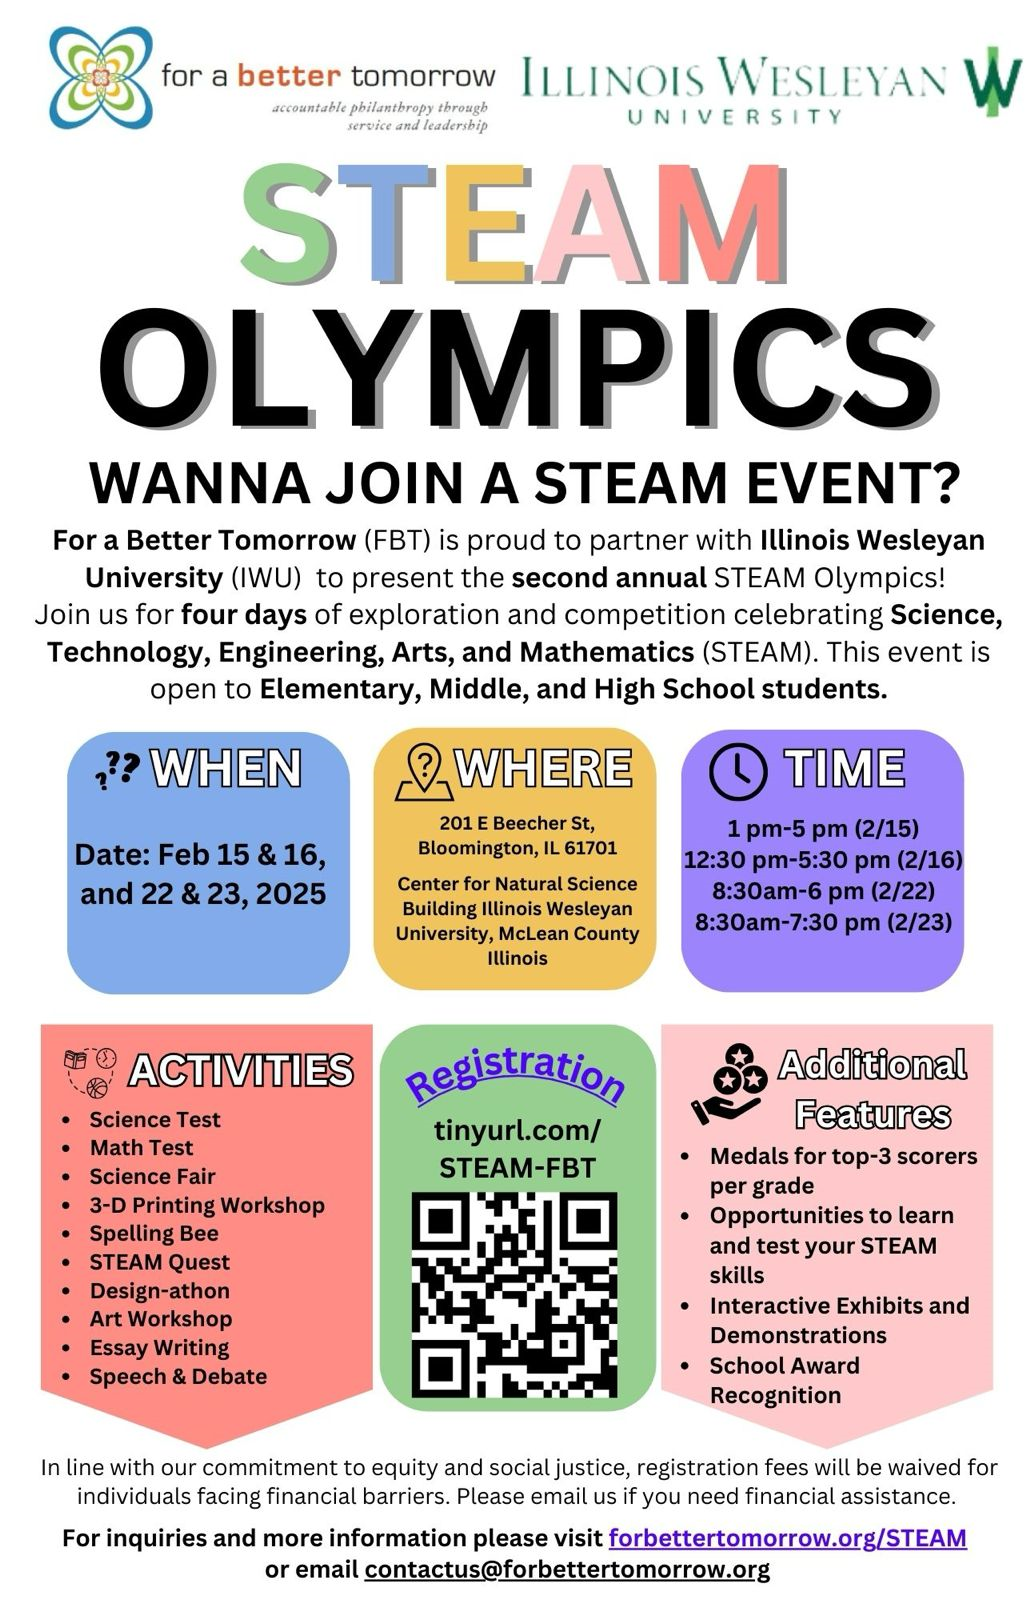
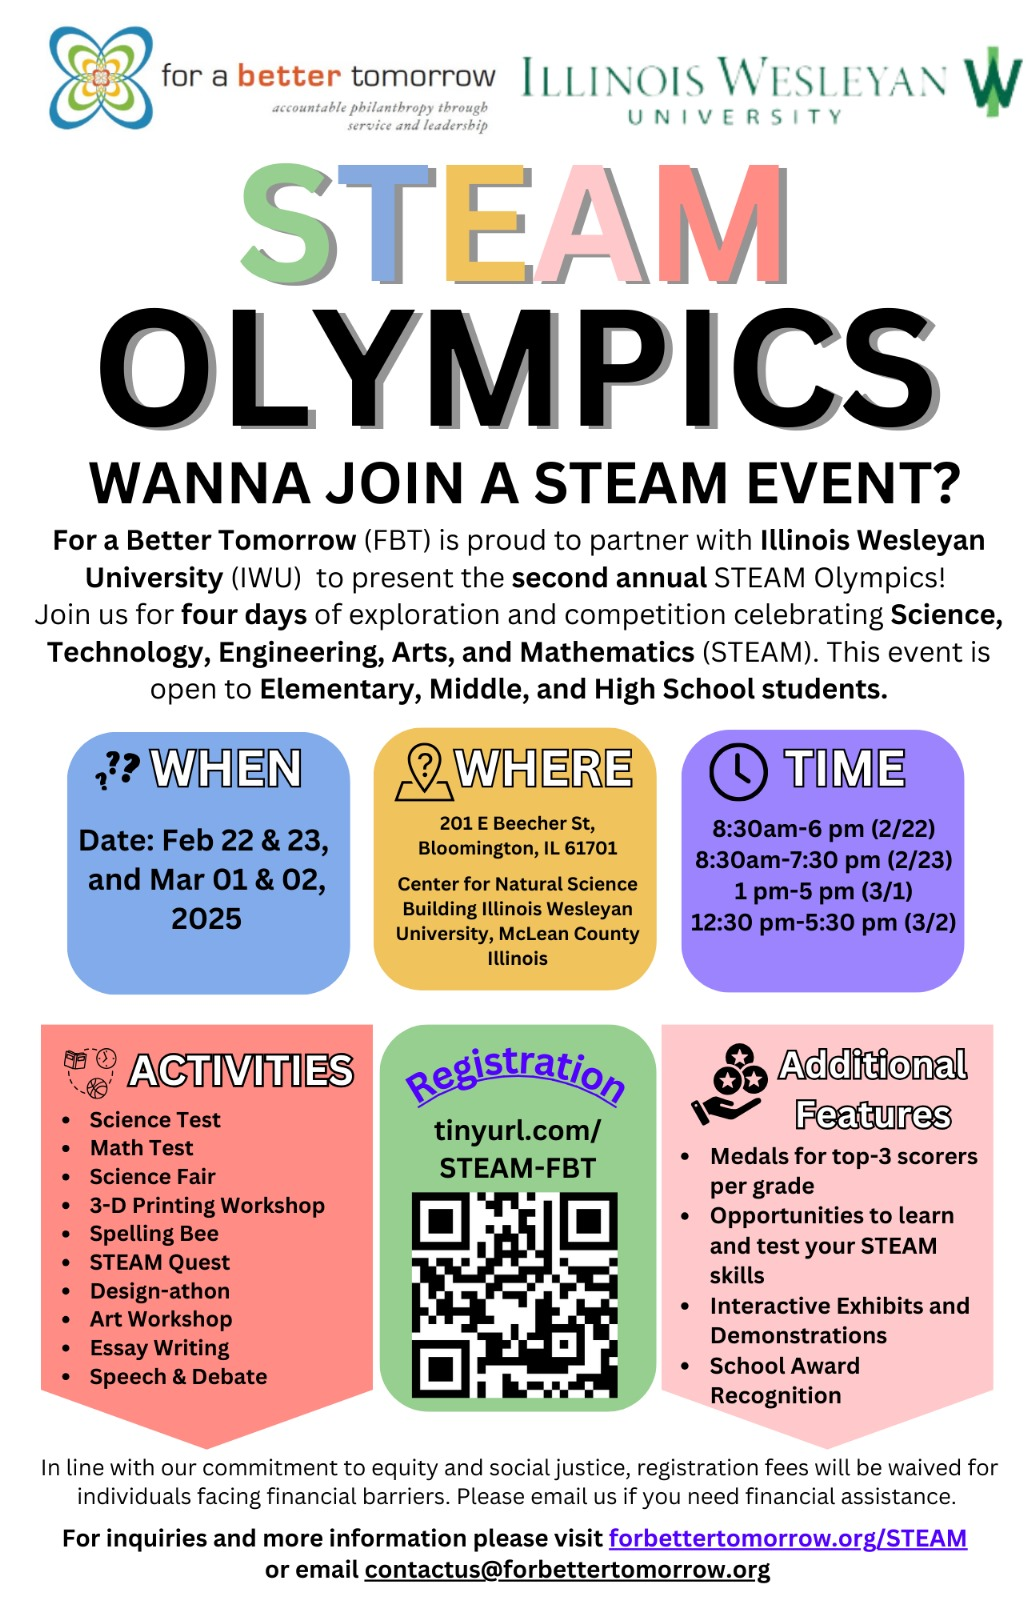
updated multiple for design-a-thon date change

diff --git a/src/javascript/STEAM/schedule.js b/src/javascript/STEAM/schedule.js
@@ -1,0 +1,78 @@
+import { useState } from 'react';
+import '../../styles/Home.css';
+import { useParams } from 'react-router-dom';
+
+const Schedule = () => {
+
+    const [userId, setUserId] = useState("");
+    const [userUrl, setUserUrl] = useState("");
+
+    const handleChange = event => {
+        setUserId(event.target.value);
+        setUserUrl("/steam/schedule/" + event.target.value);
+    }
+
+    //const click = () => {
+    //    alert(userId + ":" + userUrl);
+    //}
+    //<button onClick={click}>click me</button> -- this should be in return
+
+    return (
+
+
+
+        <div className="container">
+
+            <div className="row">
+
+                <div className="col-sm">
+
+                    <p className="center-align"><img src="/images/steam/FBT.png" alt="" width="40%" className="rounded" /></p>
+                </div>
+
+                <div className="col-sm">
+
+                    <p className="center-align"><img src="/images/steam/IWU.png" alt="" width="40%" className="rounded" /></p>
+                </div>
+
+            </div>
+
+            <div>
+                <h4 className="center-align"><b><u>STEAM Olympics 2025 - Schedule</u></b></h4>
+            </div>
+            <h6 ></h6>
+            <p >&nbsp;</p>
+            <div className="center-align">
+                <lable className="justify c737373"><b >User ID  </b></lable>
+                <input type="text" name="user" id="user" value={userId} onChange={handleChange}></input>
+                <p ></p>
+                <h6 className="center-align"><a type="button" class="btn btn-primary" href={userUrl}>Get user schedule</a></h6>
+            </div>
+
+            <p ></p>
+            <div><hr class="hr-line"></hr></div>
+
+            <div className="row">
+
+                <div className="col-sm">
+
+                    <h4 className="center-align"><b >Full Event Schedule</b></h4>
+                </div>
+
+            </div>
+
+            <div>
+                <h2 class="center-align"><b ></b></h2>
+                <p class="center-align"><img src="/images/steam/2025/Schedule.png" alt="" width="100%" border="2" className="rounded" /></p>
+            </div>
+
+            <div><hr class="hr-line"></hr></div>
+
+        </div>
+
+
+
+
+    );
+}
+export default Schedule;

diff --git a/src/javascript/STEAM/userSchedule.js b/src/javascript/STEAM/userSchedule.js
@@ -1,0 +1,56 @@
+import { useState } from 'react';
+import '../../styles/Home.css';
+import { useParams } from 'react-router-dom';
+import steamEventData from '../../data/steamEventData.json';
+import steamUserData from '../../data/steamUserData.json';
+
+const UserSchedule = () => {
+    const { id } = useParams();
+
+    var currentUserId = 0;
+    var currentUserName = "";
+    var currentUserActivities = [];
+
+    steamUserData.steamUsers.map((user, index) => {
+        if (id.localeCompare(user.id) == 0) {
+            currentUserId = user.id;
+            currentUserName = user.name;
+            currentUserActivities = Array.from(user.activities);
+        }
+    });
+
+
+    currentUserActivities.map((actId) => {
+        alert(actId);
+    });
+
+    if (currentUserId != 0) {
+        alert("found");
+
+    }
+
+    steamEventData.steamEvents.map((event, index) => {
+
+    });
+
+    //flyerData.flyers.map((flyer, index) => {
+    //    if (name.localeCompare(flyer.link) == 0) {
+    //        flyerName = flyer.file;
+    //    }
+    //});
+
+    //console.log(flyerName);
+
+    //var source = "/images/flyers/" + flyerName;
+
+    return (
+        <div className="container">
+            <div>
+                <div>
+                    <h5>test</h5>
+                </div>
+            </div>
+        </div>
+    );
+}
+export default UserSchedule;

diff --git a/src/App.js b/src/App.js
@@ -72,6 +72,8 @@ import YGC2026 from './javascript/YGC/ygc2026';
 import YGC2027 from './javascript/YGC/ygc2027';
 import Flyers from './javascript/flyers';
 import Flyer from './javascript/flyer';
+import UserSchedule from './javascript/STEAM/userSchedule';
+import Schedule from './javascript/STEAM/schedule';
 import Projects from './javascript/projects';
 import Project from './javascript/project';
 
@@ -145,6 +147,8 @@ function App() {
             <Route path="/ygc2027" element={<YGC2027 />} />
             <Route path="/flyers" element={<Flyers />} />
             <Route path="/flyer/:name" element={<Flyer />} />
+            <Route path="/steam/schedule" element={<Schedule />} />
+            <Route path="/steam/schedule/:id" element={<UserSchedule />} />
             <Route path="/projects" element={<Projects />} />
             <Route path="/project/:name" element={<Project />} />
             <Route path="/*" element={<NotFoundPage />} />

diff --git a/src/javascript/steam.js b/src/javascript/steam.js
@@ -9,6 +9,7 @@ const steam = () => {
 
 
 
+
     <div className="container">
       <STEAMnav ></STEAMnav>
       <div>
@@ -145,9 +146,9 @@ const steam = () => {
             <tr>
               <td rowspan="2" className="center-align align-middle"><a href="/steam/designathon">Design-athon</a></td>
               <td className="center-align align-middle">6, 7 & 8</td>
-              <td rowspan="2" className="center-align align-middle">Saturday, Feb 15<br />
+              <td rowspan="2" className="center-align align-middle">Saturday, Mar 1<br />
                 1 pm - 5 pm<br />
-                Sunday, Feb 16<br />
+                Sunday, Mar 2<br />
                 12:30 pm - 5:30 pm</td>
               <td rowspan="2" className="center-align">$25 (before 12/ 31)<br />
                 $30 (After 12/31 5:00PM)<br />
@@ -421,8 +422,6 @@ const steam = () => {
       <div><hr class="hr-line"></hr></div>
 
     </div>
-
-
 
 
 
